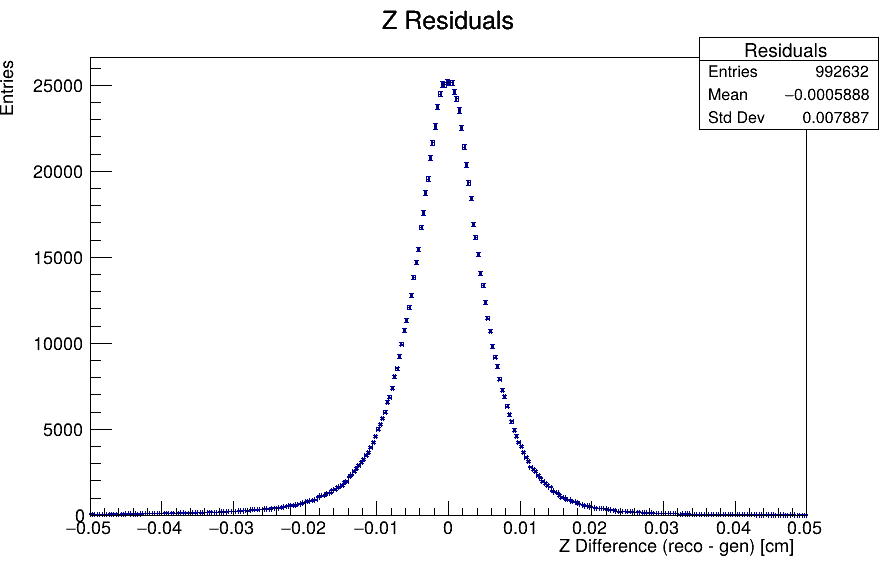
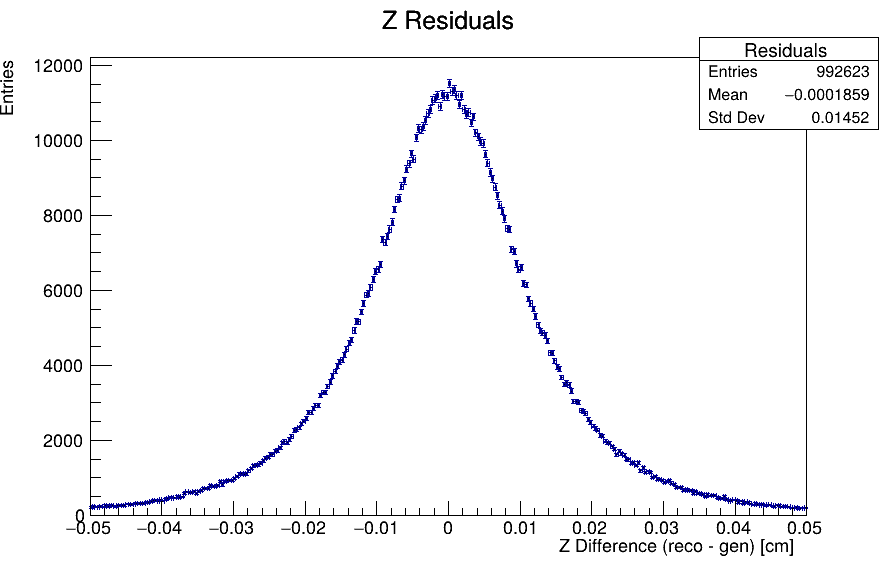
Fixed bug where point where excluded due to smearing

diff --git a/project/macros/analysis.C b/project/macros/analysis.C
@@ -74,25 +74,24 @@ void analysis(unsigned int events = 1000000) {
     
     
     const int nResBins = 300;
-    const double ResMin = -0.05;  // Adjust range based on your data
+    const double ResMin = -0.05;
     const double ResMax = 0.05;
     
     const int nMultBins = 70;
-    const double MultMin = 1;  // Adjust range based on your data
+    const double MultMin = 1; 
     const double MultMax = 70;
     
-    // Create histogram for zGen efficiency
     const int nZBins = 50;
-    const double zMin = -20;  // Adjust range based on your data
+    const double zMin = -20; 
     const double zMax = 20;
 
 
-    const int nZProfileBins = 10;
+    const int nZProfileBins = 11;
     const double zProfileMin = -13.5;  
     const double zProfileMax = 13.5;
 
     TProfile* profileZDiffGen = new TProfile("profileZDiffGen", 
-        "Z Difference vs. Generated Z Position;Z_{gen} [cm];Z_{reco} - Z_{gen} [cm]", 
+        "Z Difference vs. Generated Z Position;Z_{gen} [cm];|Z_{reco} - Z_{gen}| [cm]", 
         nZProfileBins, zProfileMin, zProfileMax, "e");
 
     profileZDiffGen->SetMarkerStyle(20);
@@ -100,7 +99,6 @@ void analysis(unsigned int events = 1000000) {
     profileZDiffGen->SetMarkerColor(kBlue);
     profileZDiffGen->SetLineColor(kBlue);    
 
-    // Create histograms for residuals and multiplicities
     TH1D* histRes = new TH1D("Residuals", "Z Residuals;Z Difference (reco - gen) [cm];Entries", nResBins, ResMin, ResMax);
     TH1D* histMultTotal = new TH1D("MultTotal", "Multiplicity Distribution;Multiplicity;Entries", nMultBins, MultMin, MultMax);
     TH1D* histMultValid = new TH1D("MultValid", "Valid Events Multiplicity;Multiplicity;Entries", nMultBins, MultMin, MultMax);  
@@ -113,26 +111,22 @@ void analysis(unsigned int events = 1000000) {
     histMultTotal->Sumw2();
     histMultValid->Sumw2();
     
-    // Create vectors for multiplicity vs z-difference
     vector<double> mult_bins(nMultBins);
     vector<double> zDiff_means(nMultBins, 0.0);
     vector<double> zDiff_errors(nMultBins, 0.0);
     vector<double> mult_counts(nMultBins, 0.0);
     vector<double> mult_errors(nMultBins);
     
-     // Create vectors for efficiency vs zGen graph
     vector<double> z_positions;
     vector<double> z_efficiencies;
     vector<double> z_errors;
     vector<double> z_xerrors;  // Will be zero
     
-    // Calculate means and errors for z-differences
     vector<double> valid_mult;
     vector<double> valid_zdiff;
     vector<double> valid_zdiff_errors;
     vector<double> valid_mult_errors;
     
-    // Create vectors for efficiency graph
     vector<double> multiplicities;
     vector<double> efficiencies;
     vector<double> errorLows;
@@ -141,33 +135,26 @@ void analysis(unsigned int events = 1000000) {
     vector<double> errorHighsX;
     
     
-    // Create vectors for zDiff vs zGen graph
-    //vector<double> zgen_positions;
-    //vector<double> zdiff_values;
     vector<double> zdiff_errors;
     vector<double> zero_xerrors;
     
     
     
-    // Initialize multiplicity bins
     for(int i = 0; i < nMultBins; ++i) {
         mult_bins[i] = i + 0.5;  // Center of each bin
     }
     
     
-    // Set histogram styles
     histMultTotal->SetLineColor(kBlue);
     histMultTotal->SetLineWidth(2);
     histMultValid->SetLineColor(kRed);
     histMultValid->SetLineWidth(2);
 
-    // Process entries in the input tree
     for (int i = 0; i < inputTree->GetEntriesFast(); ++i) {
         inputTree->GetEntry(i);
         
         double zGen = genVertex->GetZ();
         
-        // Fill total multiplicity and z histograms
         histMultTotal->Fill(genMult);
         histZTotal->Fill(zGen);
 
@@ -178,20 +165,14 @@ void analysis(unsigned int events = 1000000) {
             histRes->Fill(zDiff);
             profileZDiffGen->Fill(zGen, abs(zDiff));
             
-            // Accumulate absolute z-differences for each multiplicity bin
             if(genMult < nMultBins) {
                 zDiff_means[genMult] += fabs(zDiff);
                 mult_counts[genMult] += 1;
             }
             
-            // Add values for zDiff vs zGen graph
-            //zgen_positions.push_back(zGen);
-            //zdiff_values.push_back(zDiff);
-//            zdiff_values.push_back(zDiff/zGen);
-            zdiff_errors.push_back(histRes->GetRMS());  // Using the same error as other graphs
+            zdiff_errors.push_back(histRes->GetRMS());  
             zero_xerrors.push_back(0);  // No error on x-axis
             
-            // Fill valid histograms if within resolution
             if (fabs(zDiff) < 3 * (histRes->GetStdDev())) {
                 histMultValid->Fill(genMult);
                 histZValid->Fill(zGen);
@@ -201,7 +182,6 @@ void analysis(unsigned int events = 1000000) {
 
    
 
-    // Calculate efficiencies for each z bin
     for (int bin = 1; bin <= nZBins; ++bin) {
         int totalEvents = histZTotal->GetBinContent(bin);
         if (totalEvents > 0) {
@@ -212,12 +192,11 @@ void analysis(unsigned int events = 1000000) {
             
             z_positions.push_back(zPos);
             z_efficiencies.push_back(efficiency);
-            z_errors.push_back(errorHigh);  // Using the high error (could use average of high/low if preferred)
-            z_xerrors.push_back(0);  // No error on x-axis as requested
+            z_errors.push_back(errorHigh); 
+            z_xerrors.push_back(0);
         }
     }
 
-    // Create TGraphErrors for efficiency vs zGen
     TGraphErrors* graphEffZ = new TGraphErrors(
         z_positions.size(),
         z_positions.data(),
@@ -242,7 +221,6 @@ void analysis(unsigned int events = 1000000) {
         }
     }
 
-    // Create TGraphErrors for multiplicity vs z-difference
     TGraphErrors* graphZDiff = new TGraphErrors(
         valid_mult.size(),
         valid_mult.data(),
@@ -259,10 +237,9 @@ void analysis(unsigned int events = 1000000) {
 
     
 
-    // Loop over histogram bins
     for (int bin = 1; bin <= histMultTotal->GetNbinsX(); ++bin) {
         int totalEvents = histMultTotal->GetBinContent(bin);
-        if (totalEvents > 0) {  // Only process bins with entries
+        if (totalEvents > 0) {  
             int validEvents = histMultValid->GetBinContent(bin);
             double mult = histMultTotal->GetBinCenter(bin);
             double errmult = sqrt(mult);
@@ -293,54 +270,20 @@ void analysis(unsigned int events = 1000000) {
     graphEff->SetMarkerSize(0.5);
     graphEff->SetMarkerColor(kBlue);
     
-/*    
-     Create TGraphErrors for zDiff vs zGen
-    TGraphErrors* graphZDiffGen = new TGraphErrors(
-       zgen_positions.size(),
-       zgen_positions.data(),
-       zdiff_values.data(),
-       zero_xerrors.data(),
-       zdiff_errors.data()       
-       zgen_positions.size(),
-       zdiff_values.data(),
-       zgen_positions.data(),
-       zdiff_errors.data(),
-       zero_xerrors.data()
-
-     );
-
-    graphZDiffGen->SetTitle("Z Difference vs. Generated Z Position; #frac{Z_{reco} - Z_{gen}}{Z_{gen}}; Z_{gen} [mm]");
-    graphZDiffGen->GetXaxis()->SetRangeUser(-1.5, 1.5);
-    graphZDiffGen->SetMarkerStyle(20);
-    graphZDiffGen->SetMarkerSize(0.8);
-    graphZDiffGen->SetMarkerColor(kBlue);
-    graphZDiffGen->SetLineColor(kBlue);
-*/
-
-     // Draw zDiff vs zGen plot
     TCanvas* canvasZDiffGen = new TCanvas("canvasZDiffGen", "Z Difference vs Generated Z", 900, 600);
-    //graphZDiffGen->Draw("AP");
-    //profileZDiffGen->GetXaxis()->SetRangeUser(-15, 15);
-    profileZDiffGen->GetYaxis()->SetRangeUser(0, 0.04);
+
+    profileZDiffGen->GetYaxis()->SetRangeUser(0, 0.05);
     profileZDiffGen->SetStats(0);
-    //profileZDiffGen->GetYaxis()->SetTitleOffset(1.01);
     profileZDiffGen->Draw();
     canvasZDiffGen->SaveAs("../plots/ZDiff_vs_ZGen.png");
-
-    // Don't forget to write to output file
-    //graphZDiffGen->Write();
     profileZDiffGen->Write();
 
-    // Draw multiplicity distributions together
     TCanvas* canvasMult = new TCanvas("canvasMult", "Multiplicity Distributions", 900, 600);
     
-    // Create legend
     TLegend* legend = new TLegend(0.65, 0.75, 0.85, 0.85);
     legend->AddEntry(histMultTotal, "Total Events", "l");
     legend->AddEntry(histMultValid, "Valid Events", "l");
     
-    // Draw histograms
-    //histMultTotal->GetYaxis()->SetTitleOffset(0.99);
     histMultTotal->Draw("HIST");
     histMultValid->Draw("HIST SAME");
     histMultTotal->SetStats(0);
@@ -349,30 +292,24 @@ void analysis(unsigned int events = 1000000) {
     
     canvasMult->SaveAs("../plots/MultiplicityDistributions.png");
 
-    // Draw efficiency plot
     TCanvas* canvasGraph = new TCanvas("canvasGraph", "Efficiency vs. Multiplicity", 900, 600);
     graphEff->Draw("AP");
     graphEff->GetYaxis()->SetRangeUser(0.85, 1.05);
     canvasGraph->SaveAs("../plots/Efficiency_vs_Multiplicity.png");
 
-    // Draw residuals
     TCanvas* canvasHist = new TCanvas("canvasHist", "Z Residuals", 900, 600);
     histRes->Draw("E1 P");
     canvasHist->SaveAs("../plots/ZResiduals.png");
 
-    // Draw multiplicity vs z-difference plot
     TCanvas* canvasMultZDiff = new TCanvas("canvasMultZDiff", "Absolute Z Difference vs Multiplicity", 800, 600);
-    //graphZDiff->GetYaxis()->SetTitleOffset(0.99);
     graphZDiff->Draw("AP");
     canvasMultZDiff->SaveAs("../plots/ZDiff_vs_Multiplicity.png");
 
-    // Draw efficiency vs zGen plot
     TCanvas* canvasEffZ = new TCanvas("canvasEffZ", "Efficiency vs Z Position", 900, 600);
     graphEffZ->Draw("AP");
-    graphEffZ->GetYaxis()->SetRangeUser(0.75, 1.05);  // Same range as efficiency vs multiplicity
+    graphEffZ->GetYaxis()->SetRangeUser(0.75, 1.05);
     canvasEffZ->SaveAs("../plots/Efficiency_vs_Z.png");
 
-    // Save everything to output file
     outputFile->cd();
     histRes->Write();
     histMultTotal->Write();

diff --git a/project/macros/reco.C b/project/macros/reco.C
@@ -19,7 +19,7 @@ double runningWindow(const vector<double>& zCollection, double window_size = 0.5
         double windowEnd = windowStart + window_size;
         unsigned int count = 0;
         for (double z : zCollection) {
-            if (z >= windowStart && z < windowEnd) {
+            if ((z >= windowStart && z < windowEnd)) {
                 count++;
             }
         }
@@ -46,11 +46,27 @@ double runningWindow(const vector<double>& zCollection, double window_size = 0.5
 
 double recoZ(Point* point1, Point* point2){   
 
+
+
+    double x1 = point1->GetX();
     double y1 = point1->GetY();
     double z1 = point1->GetZ();
-    point1->GetY();
-    return z1 - y1/(point2->GetY() - y1) * (point2->GetZ() - z1);
 
+    double tx = - x1/(point2->GetX() - x1);
+    double ty = - y1/(point2->GetY() - y1);
+
+    double t = (tx + ty)/2;
+
+    return z1 + t * (point2->GetZ() - z1);
+
+
+/*
+    double y1 = point1->GetX();
+    double z1 = point1->GetZ();
+
+    
+    return z1 - y1/(point2->GetX() - y1) * (point2->GetZ() - z1);
+*/
 }
 
 
@@ -62,14 +78,22 @@ double phiDiff(double phi1, double phi2) {
 
 
 
-void reco(unsigned int events=1000000, double phiCut=0.01, double windowSize=0.2){
+void reco(unsigned int events=1000000, double phiCut=0.01, double windowSize=0.2, bool noise=true){
     TStopwatch stopwatch;
     stopwatch.Start();
     cout<<""<<endl;
     cout<<"Done, running reconstruction..."<<endl;
 
-    string input = "../data/sim" +to_string(events)+ "_noise.root";
-    const char* inputFileName = input.c_str();
+    string input;
+    const char* inputFileName;
+
+    if (noise){
+        input = "../data/sim" +to_string(events)+ "_noise.root";
+        inputFileName = input.c_str();
+    } else {
+        input = "../data/sim" +to_string(events)+ ".root";
+        inputFileName = input.c_str();
+    }
 
     string output = "../data/reco" + to_string(events) + ".root";
     const char* outputFileName = output.c_str();

diff --git a/project/macros/sim.C b/project/macros/sim.C
@@ -11,23 +11,10 @@
 #include "../headers/Point.h"
 
 
-double findAngle(double x, double y) {
-    double dotProduct = x;
-    double magnitudeProduct = TMath::Sqrt(x*x + y*y);
-    
-    double cosTheta = dotProduct / magnitudeProduct;
-    cosTheta = TMath::Max(-1.0, TMath::Min(1.0, cosTheta));
-    
-    double theta = TMath::ACos(cosTheta);
-    if (y < 0) {
-        theta = 2 * M_PI - theta;
-    }
-    return theta;
-}
 
 
 
-void sim(int seed = 123, unsigned const int events = 1000000, bool MS = true, bool noise = true) {
+void sim(int seed = 123, unsigned const int events = 1000000, bool MS = true, bool noise = true, string distr="custom") {
     TStopwatch stopwatch;
     stopwatch.Start();
 
@@ -86,7 +73,7 @@ void sim(int seed = 123, unsigned const int events = 1000000, bool MS = true, bo
     for (unsigned int i = 0; i < events; ++i) {
         processedEvents++;
         e.SetVertex();
-        e.SetMultiplicity("custom");
+        e.SetMultiplicity(distr);
         m = e.GetMultiplicity();
 
         vertex.Set(e.GetVertex(0),e.GetVertex(1), e.GetVertex(2), i);
